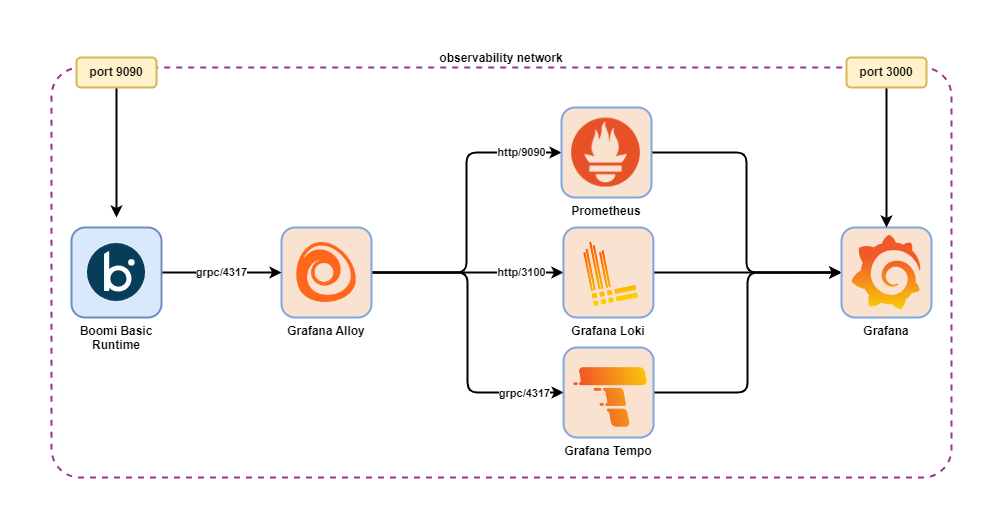
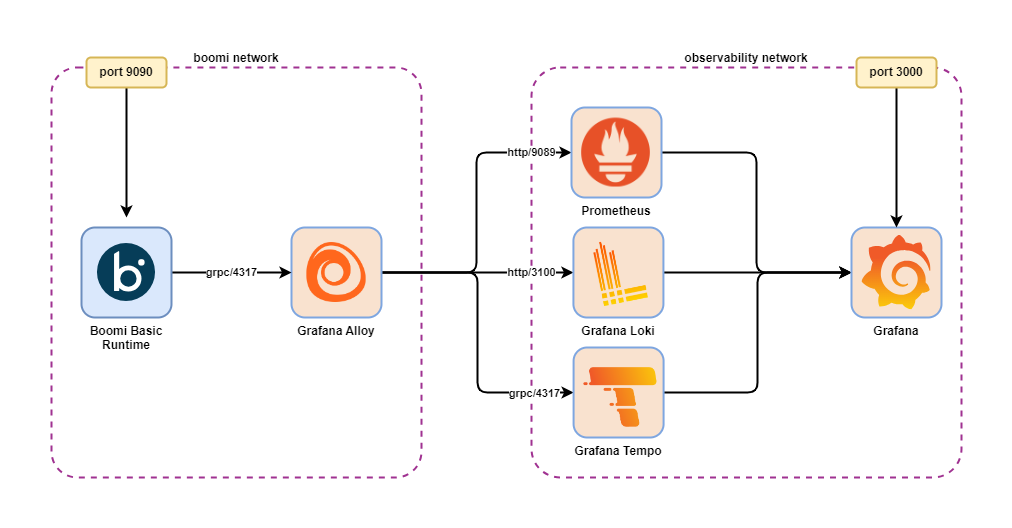
Updated README

diff --git a/README.md b/README.md
@@ -3,62 +3,148 @@
 ![](assets/boomi-otel.png)
 
 ## Overview
-This repository provides a Docker Compose-based observability stack for a Boomi runtimes, including:
-- **Prometheus** for metrics collection
-- **Loki** for log aggregation
-- **Tempo** for distributed tracing
-- **Grafana** for visualization and dashboards
-- **Alloy** for OpenTelemetry pipeline and data forwarding
+This repository provides a Docker Compose configuration for Boomi's Integration Runtime monitoring with Opentelemetry. 
+
+### Environment Variables (.env file)
+
+Before starting the containers, you must configure the `.env` file with your Boomi-specific values:
+
+| Variable | Description | Where to Find |
+|----------|-------------|---------------|
+| `BOOMI_ACCOUNTID` | Your Boomi Account ID | Boomi Platform → Settings → Account Information |
+| `BOOMI_ENVIRONMENTID` | Target environment for the runtime | Boomi Platform → Manage → Runtime Management → Environments |
+| `INSTALL_TOKEN` | Runtime installation token (starts with "atom-") | Boomi Platform → Manage → Runtime Management → New → Basic Runtime → Setup Preference Local → Security Options → Generate Token |
+| `LOCALHOST_ID` | Hostname for the Boomi runtime | Defaults to "atom" |
+| `ATOM_NAME` | Display name in Boomi Platform UI | Choose a name that will be visible within the Boomi Platform |
+| `OBSERVABILITY_HOSTNAME` | Hostname/IP for observability stack | Use actual IP address for local development or DNS hostname for production |
+
+### Components Within Solution
+
+- **Docker** for container management.
+- **Prometheus** for metrics collection. 
+- **Loki** for log aggregation.
+- **Tempo** for distributed tracing. 
+- **Alloy** for data forwarding. 
+
+## Prerequisites
+
+Before getting started, ensure you have:
+
+- **Docker** and **Docker Compose** installed ([Installation Guide](https://docs.docker.com/engine/install/))
+- **Boomi Account** with access to install a runtime
+- **Boomi Runtime** environment ID and install token
+- **Postman** for API call to enable Opentelemetry on Boomi runtime
+
+## Architecture
+
+### Demo Setup (Single VM)
+All components run on one virtual machine - suitable for testing and demonstrations only.
+
+### Production Setup (Multi-VM)
+- **VM 1**: Boomi Runtime + Grafana Alloy
+- **VM 2**: Grafana + Prometheus + Loki + Tempo
+
+---
+
+
+## Quick Start for Demo
+
+The quick start for demo will install all containers on a single VM.
 
 > [!WARNING]
-> This repository should be used as a reference demo and is not production-ready. Prometheus, Loki, and Tempo are known to use high CPU resources. In a production environment, Prometheus, Loki, Tempo, and Grafana should be deployed on separate servers. The Boomi runtime and Grafana Alloy are recommended to be deployed on separate servers from the other telemetry agents.
-
-## Directory Structure
-
-- `docker-compose.yml` — Compose file for Boomi runtime, Alloy, Grafana, Prometheus, Loki, Tempo, Consul
-- `prometheus/` — Prometheus configuration files
-- `loki/` — Loki configuration files
-- `tempo/` — Tempo configuration files
-- `alloy/` — Alloy configuration files
-- `grafana/` — Grafana data and provisioning
-- `postman/` — Postman collection to enable OTel on a Boomi runtime
-
-## Quick Start
+> This quick start should only be used for demos and is not production-ready. Prometheus, Loki, and Tempo are known to use high CPU resources. In a production environment, Prometheus, Loki, Tempo, and Grafana should be deployed on separate servers. The Boomi runtime and Grafana Alloy are recommended to be deployed on separate servers from the other telemetry agents.
 
 1. Clone the repository:
 	```sh
 	git clone https://github.com/adambedenbaugh/boomi-opentelemetry-grafana.git
 	cd boomi-opentelemetry-grafana
-	# Ensure correct permissions for container
+	# Ensure correct permissions for containers
+	sudo chmod -R 775 ./
+	sudo chown -R 1000:1000 ./
+	```
+2. Edit the `.env` file with your configuration values. 
+3. Ensure that Docker and Docker Compose are installed. Full instructions can be found here: [Docker Doc: Install Docker Engine](https://docs.docker.com/engine/install/)
+	
+	Add your current user to the docker group:
+	```sh
+	sudo usermod -aG docker $USER
+	```
+	Log out of the session and back in for changes to take effect.
+
+4. Start the Boomi runtime and the observability stack:
+	```sh
+	docker compose -f docker-compose-demo.yml up -d
+	```
+
+5. Enable OpenTelemetry on the Boomi runtime using Postman. The attached [Postman collection](postman/Boomi_RuntimeObservabilitySettings.postman_collection.json) contains the required API call. Before executing the request, update the following in the collection's Auth and Variables section:
+	- Set the username and password under Auth
+	- Set `atomId` under Variables  
+	- Set `accountId` under Variables to include the Boomi Account ID
+
+6. Restart Boomi runtime within Boomi's Platform UI.
+
+7. Access Grafana at `http://<host>:3000` (default credentials: admin / admin)
+
+8. In Grafana, navigate to **Connections** → **Data source** → **Add new data source**. If the following sources are not found, click **Connections** → **Add new connection**. Add the following data sources and URLs:
+    - **Loki**: URL `http://loki:3100`
+    - **Prometheus**: URL `http://prometheus:9090`
+    - **Tempo**: URL `http://tempo:3200`
+
+## Quick Start for Production
+
+The quick start for production will install the Boomi runtime and Alloy container on one VM. Grafana, Prometheus, Loki, and Tempo are installed on a second VM.
+
+### VM 1: Boomi Runtime and Alloy
+
+1. Clone the repository:
+	```sh
+	git clone https://github.com/adambedenbaugh/boomi-opentelemetry-grafana.git
+	cd boomi-opentelemetry-grafana
+	# Ensure correct permissions for containers
 	sudo chmod -R 775 ./
 	sudo chown -R 1000:1000 ./
 	```
 2. Edit the `.env` file with your values. 
 3. Ensure that Docker and Docker Compose are installed. Full instructions can be found here: [Docker Doc: Install Docker Engine](https://docs.docker.com/engine/install/)
-	Run `adduser` to add your current user to the docker group. 
+	
+	Add your current user to the docker group:
 	```sh
 	sudo usermod -aG docker $USER
 	```
-	Next, log out of the ssh session and back in.
-4. Start the observability stack:
+	Log out of the session and back in for changes to take effect.
+
+4. Start the Boomi runtime and Alloy:
 	```sh
-	docker compose up -d
+	docker compose -f docker-compose-boomi.yml up -d
 	```
+
 5. Enable OpenTelemetry on the Boomi runtime using Postman. The attached [Postman collection](postman/Boomi_RuntimeObservabilitySettings.postman_collection.json) contains the required API call. Before executing the request, update the following in the collection's Auth and Variables section:
-	- Set the username and password under Auth.
-	- Set `atomId` under Variables.
-	- Set `accountId` under Variables to include the Boomi Account Id. 
-6. Restart Boomi runtime within Boomi's Platform UI. 
-7. Access Grafana at `http://<host>:3000` (default user: admin / admin)
-8. In Grafana, navigate to Connections -> Data source -> Add new data source. If the following sources are not found, then click Connections -> Add new connction. Add the following data sources and URLs:
-    - loki: URL http://loki:3100
-    - prometheus: URL http://prometheus:9090
-    - tempo: URL http://tempo:3200
+	- Set the username and password under Auth
+	- Set `atomId` under Variables
+	- Set `accountId` under Variables to include the Boomi Account ID
+
+6. Restart Boomi runtime within Boomi's Platform UI.
+
+### VM 2: Observability Stack
+
+7. On the second VM, repeat steps 1-3 from above.
+
+8. Start the observability stack:
+	```sh
+	docker compose -f docker-compose-observability.yml up -d
+	```
+
+9. Access Grafana at `http://<host>:3000` (default credentials: admin / admin)
+
+10. In Grafana, navigate to **Connections** → **Data source** → **Add new data source**. If the following sources are not found, click **Connections** → **Add new connection**. Add the following data sources and URLs:
+    - **Loki**: URL `http://loki:3100`
+    - **Prometheus**: URL `http://prometheus:9090`
+    - **Tempo**: URL `http://tempo:3200`
 
 ## Configuration
 
 - **Docker**: Edit `.env` for Boomi and Alloy Docker environment variables.
-- **Prometheus**: Edit `prometheus/prometheus.yml` to add scrape targets. By default, Prometheus uses port 9090, but in this setup, port 9000 is used to avoid a conflict with Boomi’s web service, which also defaults to 9090.
+- **Prometheus**: Edit `prometheus/prometheus.yml` to add scrape targets. By default, Prometheus uses port 9090, but in this setup, port 9089 is used externally to avoid a conflict with Boomi’s web service, which also defaults to 9090.
 - **Loki**: Edit `loki/loki.yml` for log ingestion settings.
 - **Tempo**: Edit `tempo/tempo.yml` for trace storage and endpoints.
 - **Alloy**: Edit `alloy/alloy.yml` for OpenTelemetry pipeline and exporters.
